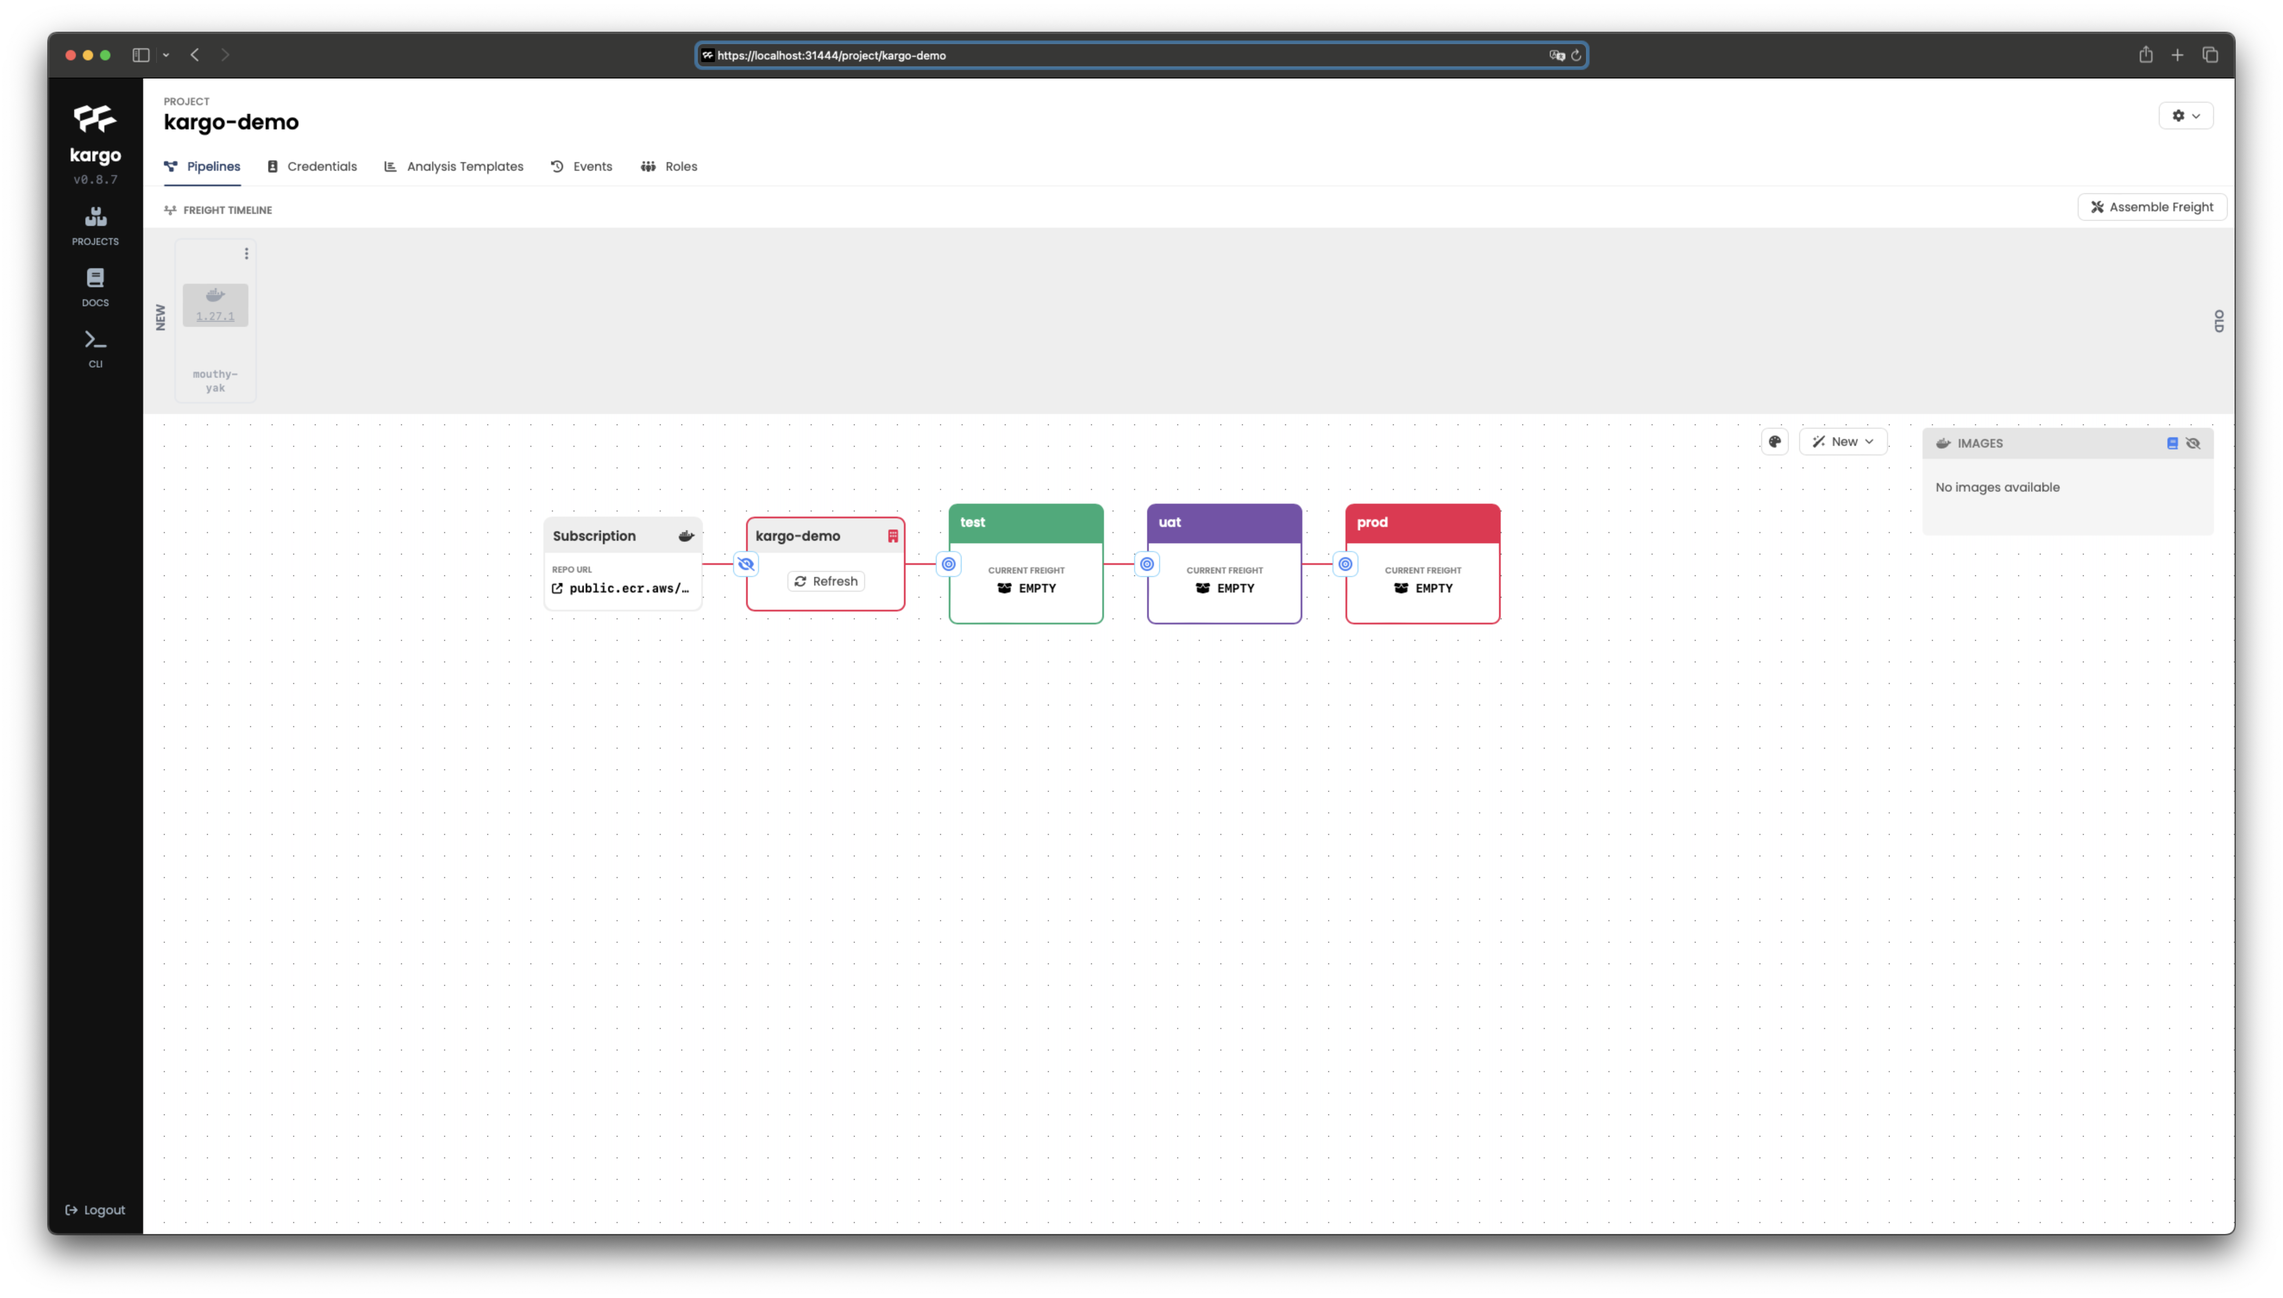
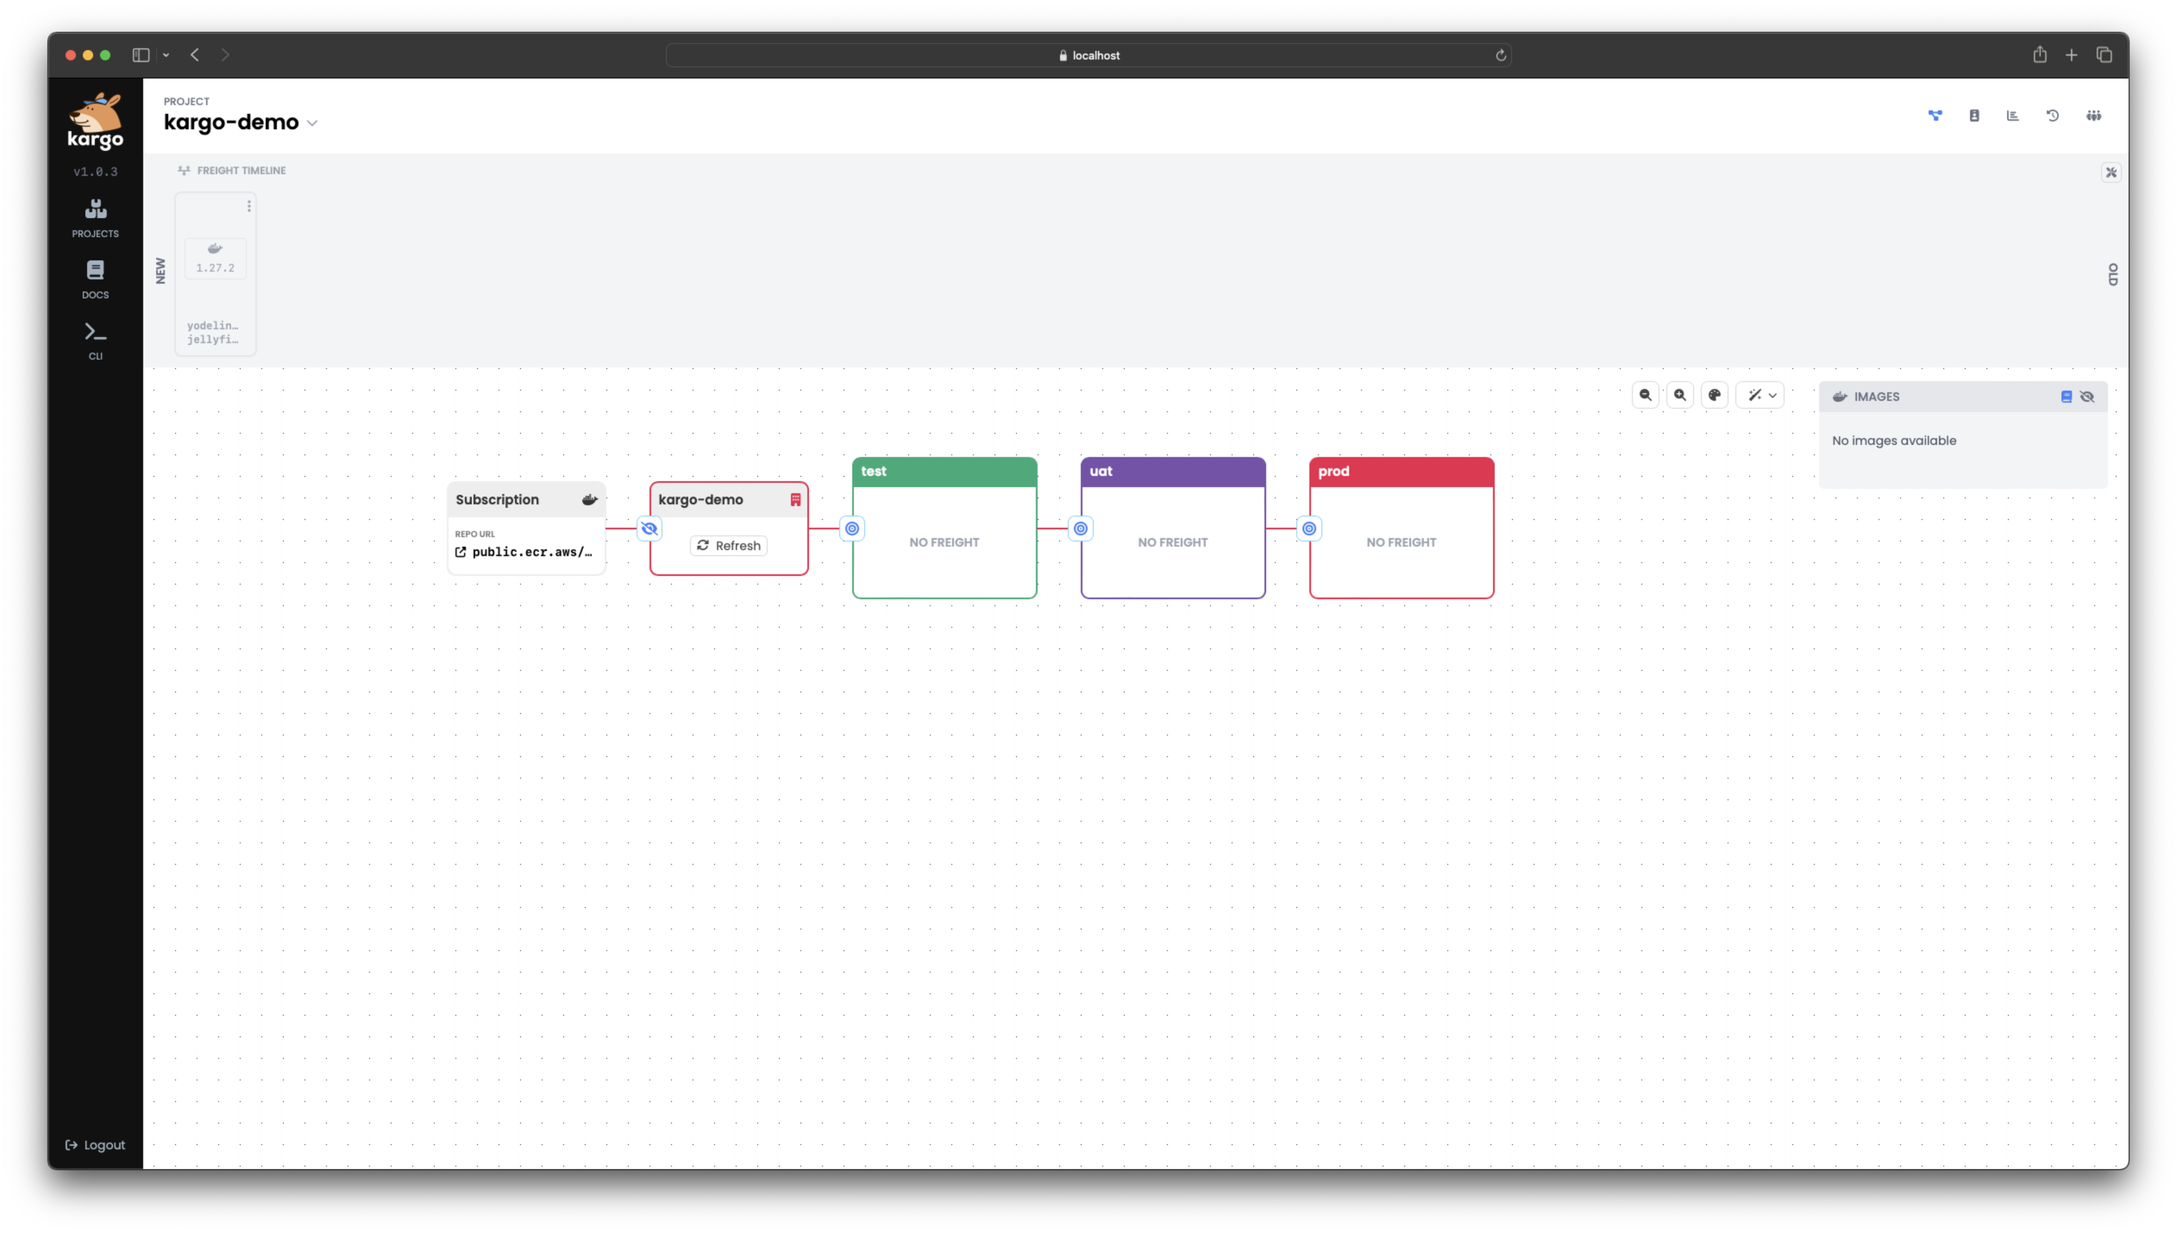
divide hacking on kargo cli into 2 sections: CLI+UI

diff --git a/docs/docs/20-quickstart.md b/docs/docs/20-quickstart.md
@@ -146,14 +146,10 @@ At the end of this process:
 * The Argo CD dashboard will be accessible at [localhost:31443](https://localhost:31443).
 
   The username and password are both `admin`.
-  
-  ![Argo-dashboard-screenshot](../static/img/argo-dashboard-1.png)
 
 * The Kargo dashboard will be accessible at [localhost:31444](https://localhost:31444).
 
   The admin password is `admin`.
-
-  ![Kargo-dashboard-screenshot](../static/img/kargo-dashboard-1.png)
 
 * You can safely ignore all cert errors for both of the above.
 
@@ -265,7 +261,7 @@ all three Argo CD `Application`s have not yet synced because they're not
 configured to do so automatically, and in fact, the branches referenced by their
 `targetRevision` fields do not even exist yet.
 
-![Argo-dashboard-screenshot](../static/img/argo-dashboard-2.png)
+![Argo-dashboard-screenshot](../static/img/argo-dashboard.png)
 
 :::info
 Our three stages all existing in a single cluster is for the sake of expediency.
@@ -273,7 +269,7 @@ A single Argo CD control plane can manage multiple clusters, so these could just
 as easily have been spread across multiple clusters.
 :::
 
-### Hands on with the Kargo CLI
+### Define Your First Pipeline
 
 Up to this point, we haven't done anything with Kargo -- in fact everything
 we've done thus far should be familiar to anyone who's already using Argo CD and
@@ -518,48 +514,25 @@ the previous section.
       Kargo uses [semver](https://github.com/masterminds/semver#checking-version-constraints) to handle semantic versioning constraints.
       :::
 
-1. Use the CLI to view our `Warehouse` resource:
+1. After applying the above configuration, you can view the pipeline you just created using the [Kargo Dashboard](https://localhost:31444/).
 
-    ```shell
-    kargo get warehouses --project kargo-demo
-    ```
+   1. In the left-hand menu, select the <Hlt>Projects</Hlt> section
+   1. Choose your `Project`, <Hlt>kargo-demo</Hlt>, from the list of available `Project`s
+   1. You can find the pipeline you've created in the center of your Project screen.
+   1. The pipeline consists of connected rectangles representing:
+      1. <Hlt>Subscription</Hlt>: Has information about the container image repository that the `Warehouse` is subscribed to.
+      1. <Hlt>kargo-kemo</Hlt>: This represents your `Warehouse`. It will automatically subscribe to the image and should produce Freight shortly.
+      1. <Hlt>test</Hlt>, <Hlt>uat</Hlt>, and <Hlt>prod</Hlt>: These are the deployment `Stage` resources.
 
-    Sample output:
-
-    ```shell
-    NAME         SHARD   AGE
-    kargo-demo           13s
-    ```
-
-1. Use the CLI to view our three `Stage` resources:
-
-    ```shell
-    kargo get stages --project kargo-demo
-    ```
-
-    Sample output:
-
-    ```shell
-    NAME   SHARD   CURRENT FREIGHT   HEALTH   PHASE           AGE
-    prod           0/1 Fulfilled              NotApplicable   19s
-    test           0/1 Fulfilled              NotApplicable   19s
-    uat            0/1 Fulfilled              NotApplicable   19s
-    ```
+   ![Kargo-dashboard-screenshot](../static/img/kargo-dashboard-projects.png)
 
 1. After a few seconds, our `Warehouse`, which subscribes to the
    `public.ecr.aws/nginx/nginx` container image, also should have already
-   produced `Freight`:
+   produced `Freight`. You can monitor the status of Freight in the various stages directly on the interface, 
+   where it will appear under the respective stages (`test`, `uat`, `prod`).
 
-    ```shell
-    kargo get freight --project kargo-demo
-    ```
+   The top of the screen displays a Freight Timeline. As your application progresses through the pipeline, the timeline will update to show you the current stage of your Freight.
 
-    Sample output:
-
-    ```shell
-    NAME                                       ALIAS        ORIGIN                 AGE
-    b2ceb4f821be8b682861c579171874028e4275fd   lanky-pika   Warehouse/kargo-demo   42s
-    ```
     :::info
     `Freight` is a set of references to one or more versioned artifacts, which
     may include:
@@ -581,17 +554,7 @@ the previous section.
     export FREIGHT_ALIAS=$(kargo get freight --project kargo-demo --output jsonpath={.alias})
     ```
 
-   For a comprehensive overview of your `Project`, follow these steps to access and 
-   view the components on the [Kargo Dashboard](https://localhost:31444/):
-
-   1. Navigate to the Kargo Dashboard by clicking the link above or entering the URL directly in your browser.
-   1. In the left-hand menu, select the <Hlt>Projects</Hlt> section.
-   1. Choose your `Project`, <Hlt>kargo-demo</Hlt>, from the list of available `Project`s.
-   1. Once there, you will see a detailed visual representation of the `Project`. This includes:
-      1. The <Hlt>Warehouse</Hlt> and its status.
-      1. Various `Stage`s: <Hlt>test</Hlt>, <Hlt>uat</Hlt>, and <Hlt>prod</Hlt>.
-
-      ![Argo-dashboard-screenshot](../static/img/kargo-dashboard-projects.png)
+### Promote to Test
 
 1. Now, let's _promote_ the `Freight` into the `test` `Stage`:
 
@@ -605,236 +568,32 @@ the previous section.
     promotion.kargo.akuity.io/test.01j2wbtrym4r3tktv38qzteh5h.7a6e91f promotion created
     ```
 
-    Query for `Promotion` resources within our project to see one has been
-    created:
-
-    ```shell
-    kargo get promotions --project kargo-demo
-    ```
-
     Our `Promotion` may briefly appear to be in a `Pending` phase, but more than
     likely, it will almost immediately be `Running`, or even `Succeeded`:
 
-    ```shell
-    NAME                                      SHARD   STAGE   FREIGHT                                    PHASE       AGE
-    test.01j92m3mx7jn49rc5p62tmnsf1.b2ceb4f           test    b2ceb4f821be8b682861c579171874028e4275fd   Succeeded   57s
-    ```
+    ![Kargo-dashboard-screenshot](../static/img/kargo-dashboard-promotion.png) <!-- todo: change screenshot to Healthy state of test stage -->
 
-    Once the `Promotion` has succeeded, we can again view all `Stage` resources
-    in our project, and at a glance, see that the `test` `Stage` is now either
-    in a `Progressing` or `Healthy` state.
-
-    ```shell
-    kargo get stages --project kargo-demo
-    ```
-
-    Sample output:
-
-    ```shell
-    NAME   SHARD   CURRENT FREIGHT                            HEALTH    PHASE           AGE
-    prod           0/1 Fulfilled                                        NotApplicable   1m34s
-    test           b2ceb4f821be8b682861c579171874028e4275fd   Healthy   Steady          1m34s
-    uat            0/1 Fulfilled                                        NotApplicable   1m34s
-    ```
-
-    We can repeat the command above until our `test` `Stage` is in a `Healthy`
-    state and we can further validate the success of this entire process by
-    visiting the test instance of our site at
-    [localhost:30081](http://localhost:30081).
-
-    To check the status of the `test` stage on the **Kargo Dashboard**:
+    You'll notice a **_tick mark_**, which signifies <Hlt>successful promotion</Hlt>.
+    At this point, we can view all `Stage` resources in our project and quickly see
+    that the `test` `Stage` is now either in a `Progressing` or `Healthy` state.
     
-    1. Navigate to the <Hlt>Projects</Hlt> section in the **left-hand menu**.
-    1. Select your `Project`, <Hlt>kargo-demo</Hlt>.
-    1. Within the `Project` overview, locate the <Hlt>test</Hlt> stage.
-    1. Look for the **_heart_ symbol**, which indicates a <Hlt>healthy</Hlt> state.
-    1. Ensure there is a **_tick mark_**, which signifies the <Hlt>successful promotion</Hlt> of the `test` stage.
-
-    ![Kargo-dashboard-screenshot](../static/img/kargo-dashboard-promotion.png)
+    Once our `test` `Stage` is in a `Healthy` state, you can further validate the
+    success of this entire process by  visiting the test instance of our site
+    at [localhost:30081](http://localhost:30081).
 
     If we once again view the `status` of our `test` `Stage` in more detail, we
     will see that it now reflects its current `Freight`, and the history of all
     `Freight` that have passed through this stage. (The collection is ordered
     most to least recent.)
 
-    ```shell
-    kargo get stage test --project kargo-demo --output jsonpath-as-json={.status}
-    ```
-
-    Sample output:
-
-    ```shell
-    [
-        {
-            "freightHistory": [
-                {
-                    "id": "b69280b76a5f5dc40f9dbb1357f553a22958dda1",
-                    "items": {
-                        "Warehouse/kargo-demo": {
-                            "images": [
-                                {
-                                    "digest": "sha256:880533409097c86a27961c44bfcd60ca478a693e6baa4d9ee3c09b45865e5ea6",
-                                    "repoURL": "public.ecr.aws/nginx/nginx",
-                                    "tag": "1.27.1"
-                                }
-                            ],
-                            "name": "b2ceb4f821be8b682861c579171874028e4275fd",
-                            "origin": {
-                                "kind": "Warehouse",
-                                "name": "kargo-demo"
-                            }
-                        }
-                    }
-                }
-            ],
-            "freightSummary": "b2ceb4f821be8b682861c579171874028e4275fd",
-            "health": {
-                "output": [
-                    {
-                        "applicationStatuses": [
-                            {
-                                "Name": "kargo-demo-test",
-                                "Namespace": "argocd",
-                                "health": {
-                                    "status": "Healthy"
-                                },
-                                "operationState": {
-                                    "finishedAt": "2024-09-30T23:26:40Z",
-                                    "message": "successfully synced (all tasks run)",
-                                    "operation": {
-                                        "info": [
-                                            {
-                                                "name": "Reason",
-                                                "value": "Promotion triggered a sync of this Application resource."
-                                            },
-                                            {
-                                                "name": "kargo.akuity.io/freight-collection",
-                                                "value": "b69280b76a5f5dc40f9dbb1357f553a22958dda1"
-                                            }
-                                        ],
-                                        "initiatedBy": {
-                                            "automated": true,
-                                            "username": "kargo-controller"
-                                        },
-                                        "retry": {},
-                                        "sync": {
-                                            "revisions": [
-                                                "stage/test"
-                                            ],
-                                            "syncOptions": [
-                                                "CreateNamespace=true"
-                                            ]
-                                        }
-                                    },
-                                    "phase": "Succeeded",
-                                    "syncResult": {
-                                        "revision": "707412fa2be1aae72767c0acb652684c233a2802",
-                                        "source": {
-                                            "repoURL": "https://github.com/krancour/kargo-demo-gitops-2.git",
-                                            "targetRevision": "stage/test"
-                                        }
-                                    }
-                                },
-                                "sync": {
-                                    "revision": "707412fa2be1aae72767c0acb652684c233a2802",
-                                    "status": "Synced"
-                                }
-                            }
-                        ]
-                    }
-                ],
-                "status": "Healthy"
-            },
-            "lastHandledRefresh": "2024-09-30T23:31:40Z",
-            "lastPromotion": {
-                "finishedAt": "2024-09-30T23:31:37Z",
-                "freight": {
-                    "images": [
-                        {
-                            "digest": "sha256:880533409097c86a27961c44bfcd60ca478a693e6baa4d9ee3c09b45865e5ea6",
-                            "repoURL": "public.ecr.aws/nginx/nginx",
-                            "tag": "1.27.1"
-                        }
-                    ],
-                    "name": "b2ceb4f821be8b682861c579171874028e4275fd",
-                    "origin": {
-                        "kind": "Warehouse",
-                        "name": "kargo-demo"
-                    }
-                },
-                "name": "test.01j92m3mx7jn49rc5p62tmnsf1.b2ceb4f",
-                "status": {
-                    "finishedAt": "2024-09-30T23:31:37Z",
-                    "freight": {
-                        "images": [
-                            {
-                                "digest": "sha256:880533409097c86a27961c44bfcd60ca478a693e6baa4d9ee3c09b45865e5ea6",
-                                "repoURL": "public.ecr.aws/nginx/nginx",
-                                "tag": "1.27.1"
-                            }
-                        ],
-                        "name": "b2ceb4f821be8b682861c579171874028e4275fd",
-                        "origin": {
-                            "kind": "Warehouse",
-                            "name": "kargo-demo"
-                        }
-                    },
-                    "freightCollection": {
-                        "id": "b69280b76a5f5dc40f9dbb1357f553a22958dda1",
-                        "items": {
-                            "Warehouse/kargo-demo": {
-                                "images": [
-                                    {
-                                        "digest": "sha256:880533409097c86a27961c44bfcd60ca478a693e6baa4d9ee3c09b45865e5ea6",
-                                        "repoURL": "public.ecr.aws/nginx/nginx",
-                                        "tag": "1.27.1"
-                                    }
-                                ],
-                                "name": "b2ceb4f821be8b682861c579171874028e4275fd",
-                                "origin": {
-                                    "kind": "Warehouse",
-                                    "name": "kargo-demo"
-                                }
-                            }
-                        }
-                    },
-                    "healthChecks": [
-                        {
-                            "config": {
-                                "apps": [
-                                    {
-                                        "desiredRevisions": [
-                                            "707412fa2be1aae72767c0acb652684c233a2802"
-                                        ],
-                                        "name": "kargo-demo-test",
-                                        "namespace": "argocd"
-                                    }
-                                ]
-                            },
-                            "uses": "argocd-update"
-                        }
-                    ],
-                    "phase": "Succeeded",
-                    "state": {
-                        "commit": {
-                            "commit": "707412fa2be1aae72767c0acb652684c233a2802"
-                        },
-                        "update-image": {
-                            "commitMessage": "Updated ./src/base to use new image\n\n- public.ecr.aws/nginx/nginx:1.27.1"
-                        }
-                    }
-                }
-            },
-            "observedGeneration": 1,
-            "phase": "Steady"
-        }
-    ]
-    ```
+   <!-- todo: add a screenshot of zoomed test stage with test stage reflecting freight.-->
 
 1. If we look at our `Freight` in greater detail, we'll see that by virtue of
    the `test` `Stage` having achieved a `Healthy` state, the `Freight` is now
    _verified_ in `test`, which designates it as eligible for promotion to the
    next `Stage` -- in our case, `uat`.
+
+    <!-- todo: add a screenshot mentioning in the freight timeline select the freight to view the detail and share screenshot of right-emerging-panel-->
 
     :::note
     Although this example does not demonstrate it, it is also possible to verify
@@ -842,22 +601,6 @@ the previous section.
     [relevant section](./15-concepts.md#verifications) of the concepts page to
     learn more.
     :::
-
-    ```shell
-    kargo get freight --alias $FREIGHT_ALIAS --project kargo-demo --output jsonpath-as-json={.status}
-    ```
-
-    Sample output:
-
-    ```shell
-    [
-        {
-            "verifiedIn": {
-                "test": {}
-            }
-        }
-    ]
-    ```
 
 ### Behind the Scenes
 
